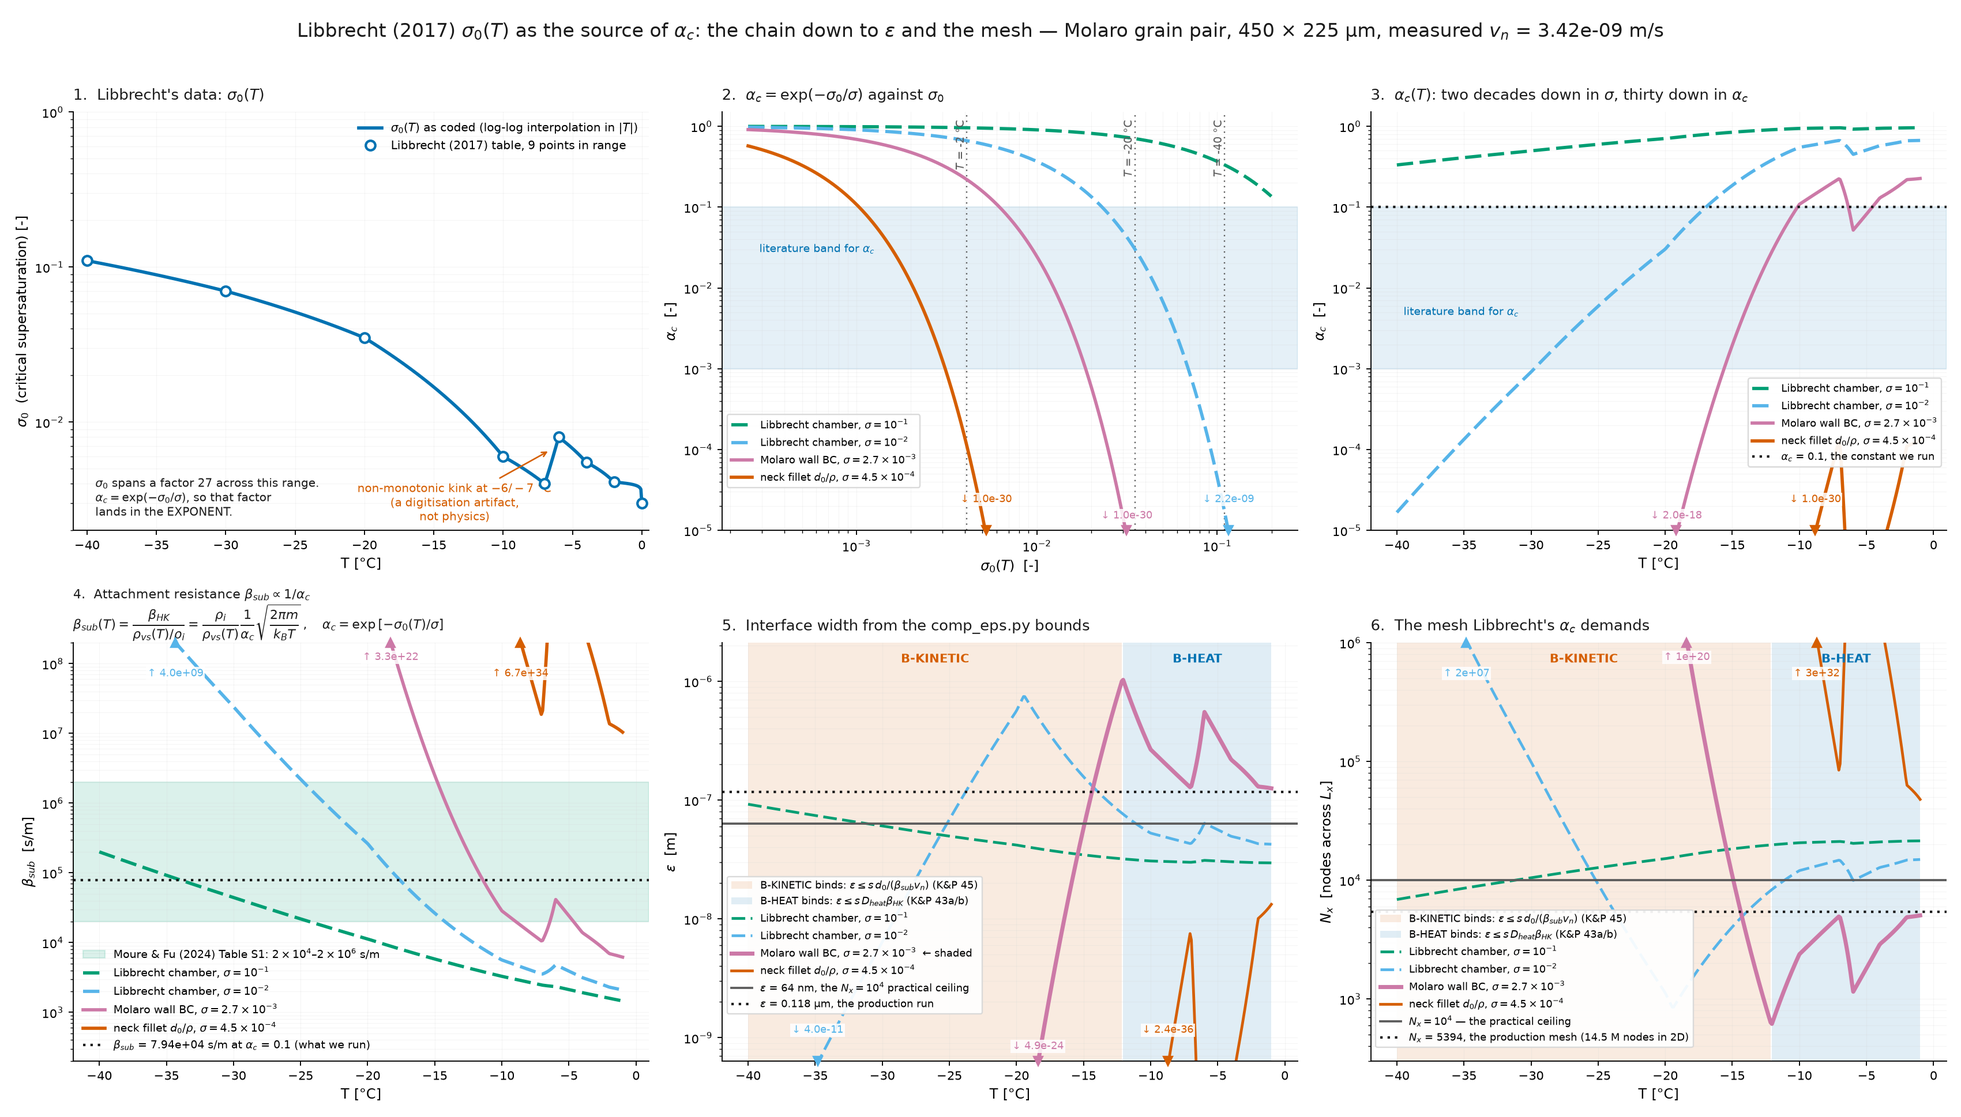
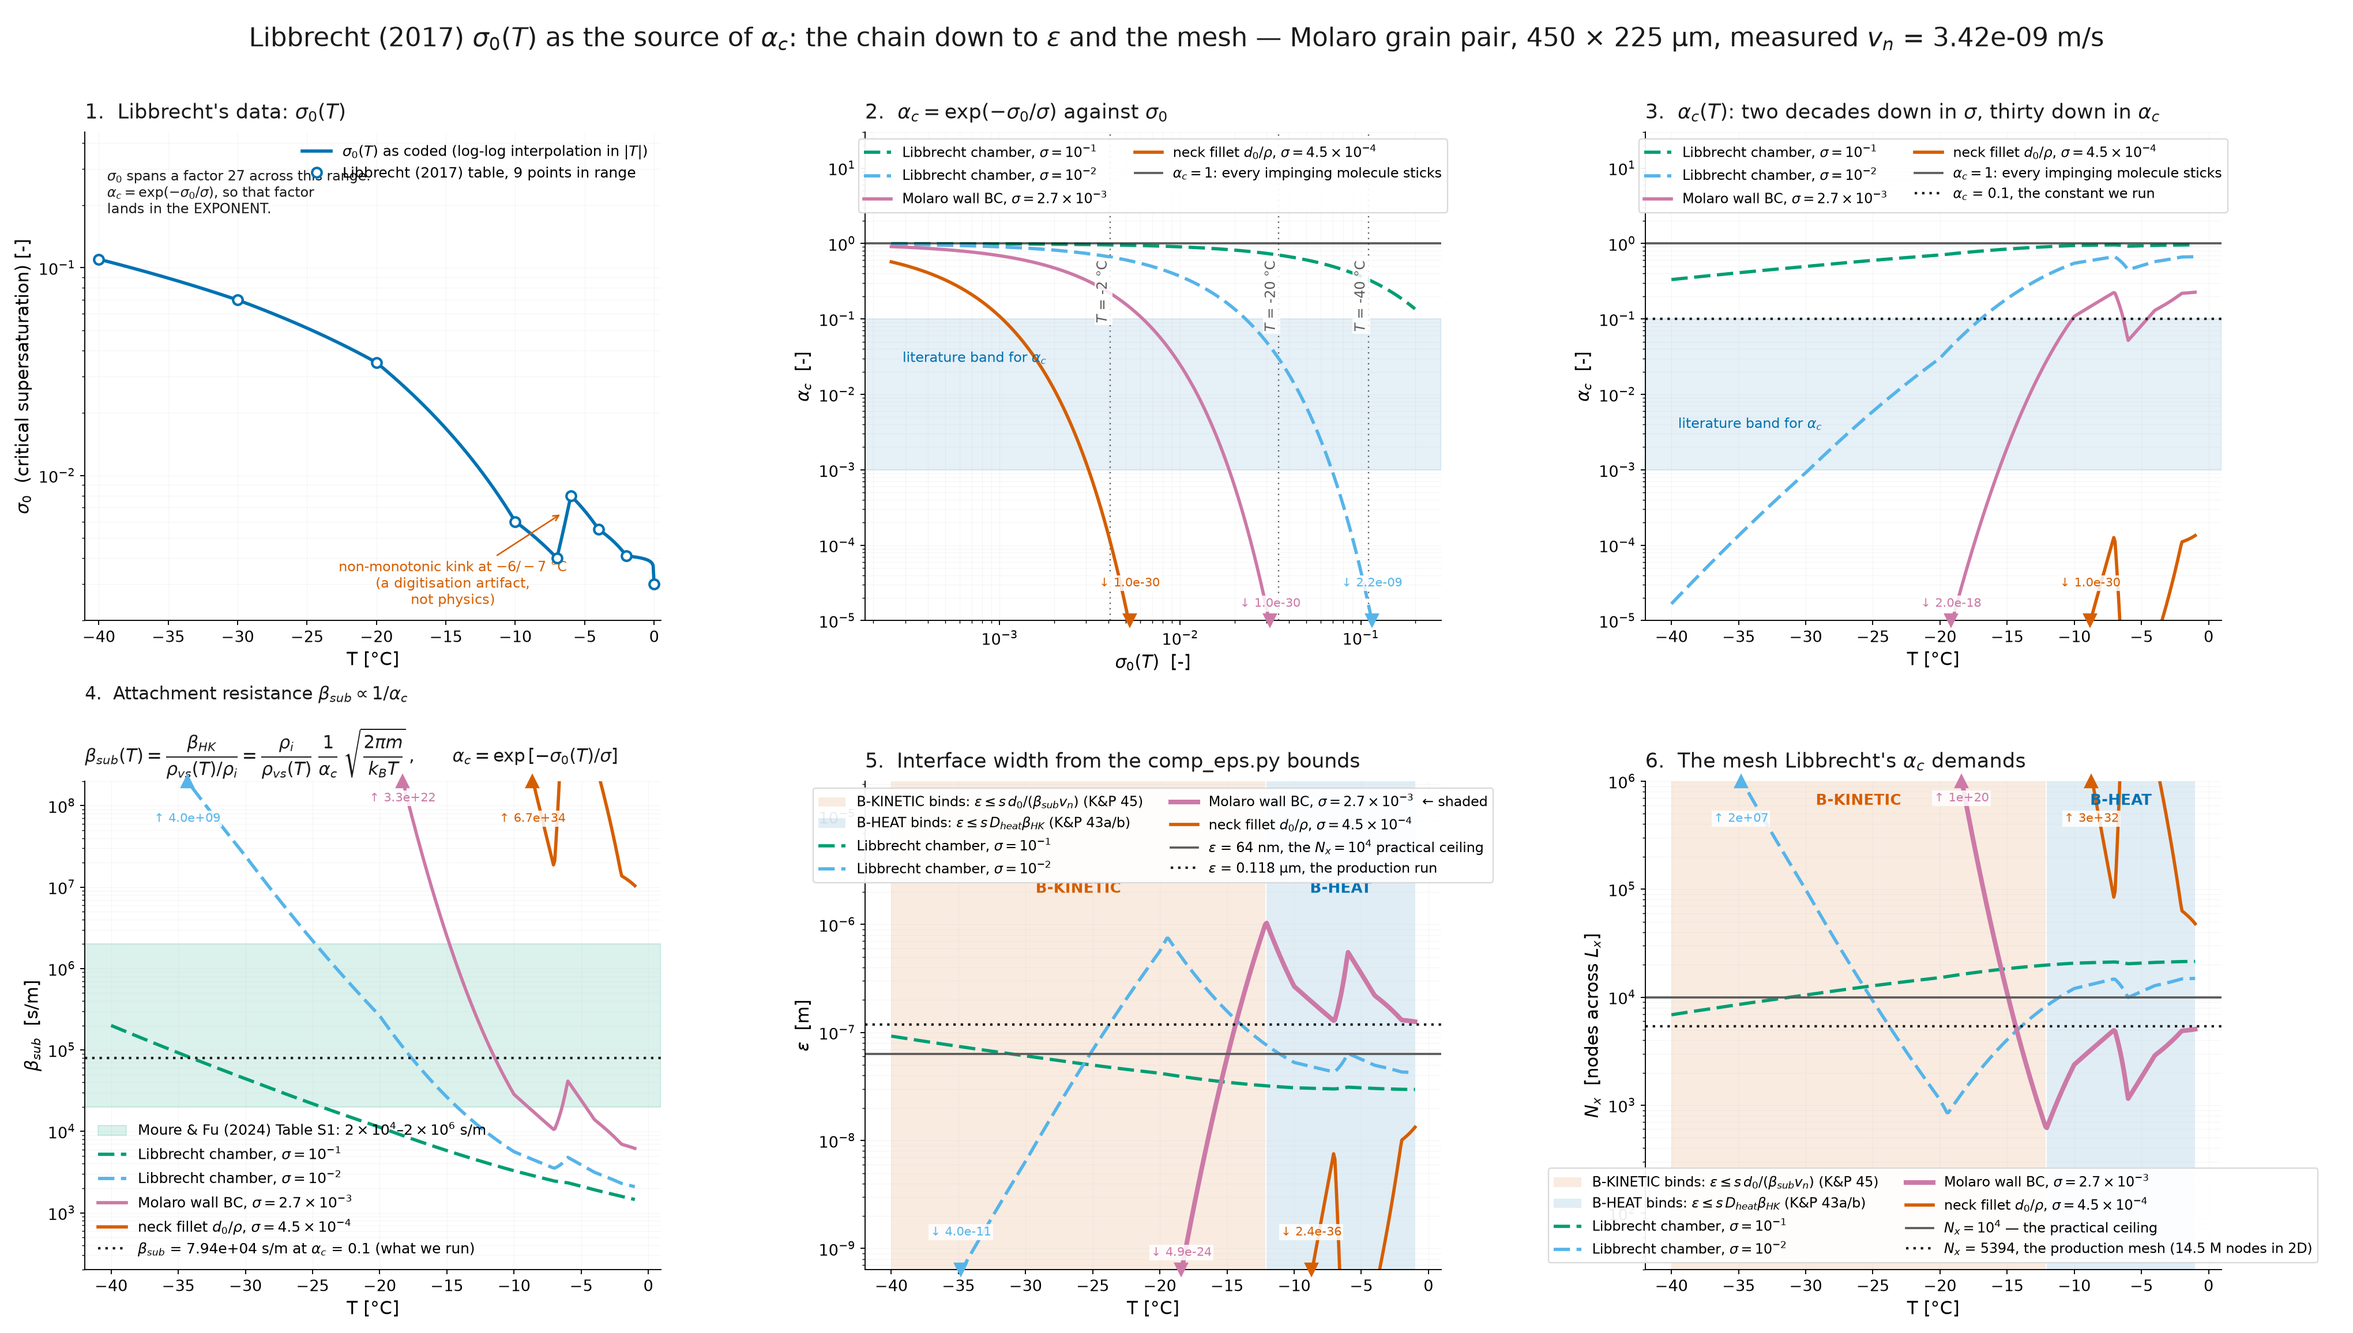
Size the Libbrecht panels for a slide, and get the legends off the curves
Three problems, one cause: the panels were laid out for a screen an arm's
length away, and there was nowhere for a legend to go that a curve was not
already using.

Type is now one scheme for both the standalone panels and the overview --
title 15, labels 13, ticks 11.5, legend 10.5, notes 10 -- with the figure
sizes chosen (10x7, and 24x13.6 for the 2x3) so the per-panel area stays
comparable and the same absolute sizes work in both.

For the legends, each crowded panel reserves a band that no data can ever
reach and puts the legend there. Panels 2 and 3 use the space above
alpha_c = 1, which is now drawn and labelled -- it is a physical ceiling,
so that whitespace is honest rather than padding. Panel 5 uses the space
above the largest resolvable eps, panel 6 the space below the smallest
Nx; those are the same band seen from the two ends, so the reciprocity
between the two panels survives.

Panel 4's equation gets a blank line of air under the heading, and panel
1's factor-27 note moves to the upper left, the only corner with no
curve, legend or arrow in it.

Claude-Session: https://claude.ai/code/session_01BVdmhQKeceS9YYRoWfp7Wf

diff --git a/projects/enceladus_DSM/preprocess/plot_libbrecht_constraints.py b/projects/enceladus_DSM/preprocess/plot_libbrecht_constraints.py
@@ -107,6 +107,15 @@ SIGMA_CASES = [
 A_MOL = (ce._M_H2O / ce._RHO_ICE) ** (1.0 / 3.0)
 
 ALPHA_FLOOR = 1.0e-30       # the floor hardwired in comp_eps.alpha_libbrecht
+ALPHA_CEIL = 1.0            # every impinging molecule sticks
+
+# Type scale. These panels are meant to fill most of a slide, so they are
+# sized for a projector rather than for a screen an arm's length away. One
+# scheme serves both the standalone figures and the overview grid, because
+# FIGSIZE and OVERVIEW_SIZE keep the per-panel area roughly equal.
+FS_TITLE, FS_LABEL, FS_TICK, FS_LEG, FS_NOTE = 15, 13, 11.5, 10.5, 10
+FIGSIZE = (10.0, 7.0)
+OVERVIEW_SIZE = (24.0, 13.6)
 
 # -------------------------------------------------------------------------
 # The display window.
@@ -118,14 +127,19 @@ ALPHA_FLOOR = 1.0e-30       # the floor hardwired in comp_eps.alpha_libbrecht
 # frame and the extreme it reaches is stated, so nothing is hidden; the full
 # numbers stay in libbrecht_constraints.csv and the study README.
 # -------------------------------------------------------------------------
-VIEW_ALPHA = (ce.ALPHA_LIT_LO * 1e-2, 1.5)        # band 1e-3..1e-1; alpha_c <= 1
+VIEW_ALPHA = (ce.ALPHA_LIT_LO * 1e-2, 3.0e1)      # band 1e-3..1e-1, +2 decades
+# alpha_c <= ALPHA_CEIL by definition, so everything above it is whitespace
+# no data can ever reach -- which is where panels 2 and 3 park their legends.
 MF_BETA_LO, MF_BETA_HI = 2.0e4, 2.0e6             # M&F (2024) Table S1
 VIEW_BETA = (MF_BETA_LO * 1e-2, MF_BETA_HI * 1e2)
 
 # Mesh window, in Nx. NX_USABLE is what we can actually run; the frame is
 # opened up ~2.3 decades above it so the molecular limit Lx/a stays visible.
 NX_USABLE = 1.0e4
-VIEW_NX = (3.0e2, 1.0e6)
+# The bottom decade and a half carries no data -- they are reserved so panel 6's
+# legend has somewhere to sit that is not on top of a curve. Panel 5's eps
+# window is the exact reciprocal, so its reserved band is at the top.
+VIEW_NX = (3.0e1, 1.0e6)
 
 
 def _mark_offscale(a, x, y, color, fmt="{:.1e}", row=0):
@@ -153,31 +167,32 @@ def _mark_offscale(a, x, y, color, fmt="{:.1e}", row=0):
         while hi_i < len(out) - 1 and out[hi_i + 1]:
             hi_i += 1
         j = hi_i if hi_i < len(out) - 1 else (lo_i if lo_i > 0 else k)
-        pad = 7.0 + 12.0 * row
-        a.plot([x[j]], [edge], mk, ms=7, color=color, clip_on=False, zorder=7)
+        pad = 8.0 + 15.0 * row
+        a.plot([x[j]], [edge], mk, ms=9, color=color, clip_on=False, zorder=7)
         a.annotate(f"{arrow} {fmt.format(extreme(y))}", (x[j], edge),
                    xytext=(0, -pad if va == "top" else pad),
-                   textcoords="offset points", fontsize=7.5, color=color,
+                   textcoords="offset points", fontsize=FS_NOTE - 1,
+                   color=color,
                    ha="center", va=va, zorder=7,
                    bbox=dict(boxstyle="square,pad=0.15", fc="white", ec="none",
                              alpha=0.85))
 
 
-def _style(a, xlabel, ylabel, title, logy=True, title_size=11):
-    a.set_xlabel(xlabel, fontsize=10)
-    a.set_ylabel(ylabel, fontsize=10)
+def _style(a, xlabel, ylabel, title, logy=True, title_size=FS_TITLE, pad=10):
+    a.set_xlabel(xlabel, fontsize=FS_LABEL)
+    a.set_ylabel(ylabel, fontsize=FS_LABEL)
     if title:
-        a.set_title(title, fontsize=title_size, color=INK, loc="left", pad=9)
+        a.set_title(title, fontsize=title_size, color=INK, loc="left", pad=pad)
     if logy:
         a.set_yscale("log")
     a.grid(alpha=0.25, lw=0.5, color=GRID, which="both")
     a.spines[["top", "right"]].set_visible(False)
-    a.tick_params(labelsize=9)
+    a.tick_params(labelsize=FS_TICK)
 
 
-def _legend(a, **kw):
+def _legend(a, size=FS_LEG, **kw):
     """Framed legend, for the panels where every corner has a curve in it."""
-    a.legend(fontsize=7.6, frameon=True, framealpha=0.93, facecolor="white",
+    a.legend(fontsize=size, frameon=True, framealpha=0.93, facecolor="white",
              edgecolor=GRID, **kw)
 
 
@@ -202,19 +217,20 @@ def panel_sigma0(a, T, ctx):
            markerfacecolor="white", markeredgewidth=1.8, zorder=5,
            label="Libbrecht (2017) table, 9 points in range")
     a.annotate("non-monotonic kink at $-6/-7$ °C\n(a digitisation artifact,\n"
-               "not physics)", (-6.6, 6.6e-3), xytext=(-13.5, 3.0e-3),
-               fontsize=8.5, color=C[1], ha="center", va="center",
+               "not physics)", (-6.6, 6.6e-3), xytext=(-14.5, 3.0e-3),
+               fontsize=FS_NOTE, color=C[1], ha="center", va="center",
                arrowprops=dict(arrowstyle="->", color=C[1], lw=1.1))
-    a.text(-39.4, 2.35e-3,
+    # Upper left: the only corner with no curve, no legend and no arrow in it.
+    a.text(-39.4, 3.0e-1,
            "$\\sigma_0$ spans a factor 27 across this range.\n"
            "$\\alpha_c = \\exp(-\\sigma_0/\\sigma)$, so that factor\n"
            "lands in the EXPONENT.",
-           fontsize=8.5, color=INK, ha="left", va="bottom")
+           fontsize=FS_NOTE, color=INK, ha="left", va="top")
     a.set_xlim(-41, 0.5)
-    a.set_ylim(2.0e-3, 1.0)
+    a.set_ylim(2.0e-3, 4.5e-1)
     _style(a, "T [°C]", "$\\sigma_0$  (critical supersaturation) [-]",
            "1.  Libbrecht's data: $\\sigma_0(T)$")
-    a.legend(fontsize=8.5, frameon=False, loc="upper right")
+    a.legend(fontsize=FS_LEG, frameon=False, loc="upper right")
 
 
 def panel_alpha_vs_sigma0(a, T, ctx):
@@ -228,35 +244,43 @@ def panel_alpha_vs_sigma0(a, T, ctx):
         y = np.maximum(y, ALPHA_FLOOR)
         a.plot(s0, y, lw=2.4, color=col, ls=_ls(kind), label=lbl)
         _mark_offscale(a, s0, y, col, row=i % 2)
+    a.axhline(ALPHA_CEIL, lw=1.6, color=INK, alpha=0.7,
+              label="$\\alpha_c = 1$: every impinging molecule sticks")
     # Where the table's own sigma0 values sit, so x carries physical marks.
     for Tm in (-2.0, -20.0, -40.0):
         s0m = ce.sigma0(Tm)
         a.axvline(s0m, lw=1.0, ls=(0, (1, 3)), color=MUTED, zorder=0)
-        a.annotate(f"$T$ = {Tm:.0f} °C", (s0m, VIEW_ALPHA[1] * 0.8), rotation=90,
-                   fontsize=8, color=MUTED, ha="right", va="top")
-    a.annotate("literature band for $\\alpha_c$", (2.9e-4, 3.0e-2), fontsize=8,
-               color=C[0], va="center")
+        a.annotate(f"$T$ = {Tm:.0f} °C", (s0m, ALPHA_CEIL * 0.6), rotation=90,
+                   fontsize=FS_NOTE, color=MUTED, ha="right", va="top", zorder=6,
+                   bbox=dict(boxstyle="square,pad=0.15", fc="white", ec="none",
+                             alpha=0.85))
+    a.annotate("literature band for $\\alpha_c$", (2.9e-4, 3.0e-2),
+               fontsize=FS_NOTE, color=C[0], va="center")
     _style(a, "$\\sigma_0(T)$  [-]", "$\\alpha_c$  [-]",
            "2.  $\\alpha_c = \\exp(-\\sigma_0/\\sigma)$ against $\\sigma_0$")
-    _legend(a, loc="lower left", bbox_to_anchor=(0.0, 0.09))
+    _legend(a, size=FS_LEG - 0.5, loc="upper center", ncol=2,
+            bbox_to_anchor=(0.5, 1.0))
 
 
 def panel_alpha_vs_T(a, T, ctx):
     """3. alpha_c(T) at each sigma -- the supersaturation gap, in T."""
     a.axhspan(ce.ALPHA_LIT_LO, ce.ALPHA_LIT_HI, color=C[0], alpha=0.10, zorder=0)
     a.set_ylim(*VIEW_ALPHA)
-    a.annotate("literature band for $\\alpha_c$", (-39.5, 5.0e-3), fontsize=8,
-               color=C[0], va="center")
+    a.annotate("literature band for $\\alpha_c$", (-39.5, 4.0e-3),
+               fontsize=FS_NOTE, color=C[0], va="center")
     for i, (sig, col, lbl, kind) in enumerate(SIGMA_CASES):
         y = np.maximum(ctx["alpha"][sig], ALPHA_FLOOR)
         a.plot(T, y, lw=2.4, color=col, ls=_ls(kind), label=lbl)
         _mark_offscale(a, T, y, col, row=i % 2)
+    a.axhline(ALPHA_CEIL, lw=1.6, color=INK, alpha=0.7,
+              label="$\\alpha_c = 1$: every impinging molecule sticks")
     a.axhline(ctx["alpha_run"], lw=1.8, ls=(0, (1, 2)), color=INK,
               label=f"$\\alpha_c$ = {ctx['alpha_run']:g}, the constant we run")
     _style(a, "T [°C]", "$\\alpha_c$  [-]",
            "3.  $\\alpha_c(T)$: two decades down in $\\sigma$, "
            "thirty down in $\\alpha_c$")
-    _legend(a, loc="lower right", bbox_to_anchor=(1.0, 0.14))
+    _legend(a, size=FS_LEG - 0.5, loc="upper center", ncol=2,
+            bbox_to_anchor=(0.5, 1.0))
 
 
 def panel_beta_vs_T(a, T, ctx):
@@ -273,22 +297,22 @@ def panel_beta_vs_T(a, T, ctx):
               label=f"$\\beta_{{sub}}$ = {ctx['beta_run']:.2e} s/m at "
                     f"$\\alpha_c$ = {ctx['alpha_run']:g} (what we run)")
     _style(a, "T [°C]", "$\\beta_{sub}$  [s/m]",
-           "4.  Attachment resistance $\\beta_{sub} \\propto 1/\\alpha_c$\n"
+           "4.  Attachment resistance $\\beta_{sub} \\propto 1/\\alpha_c$\n\n"
            r"$\beta_{sub}(T)=\dfrac{\beta_{HK}}{\rho_{vs}(T)/\rho_i}"
-           r"=\dfrac{\rho_i}{\rho_{vs}(T)}\dfrac{1}{\alpha_c}"
-           r"\sqrt{\dfrac{2\pi m}{k_B T}}\,,\quad"
+           r"=\dfrac{\rho_i}{\rho_{vs}(T)}\;\dfrac{1}{\alpha_c}\;"
+           r"\sqrt{\dfrac{2\pi m}{k_B T}}\,,\qquad"
            r"\alpha_c=\exp\left[-\sigma_0(T)/\sigma\right]$",
-           title_size=9.5)
-    a.legend(fontsize=8, frameon=False, loc="lower left")
+           title_size=13, pad=14)
+    a.legend(fontsize=FS_LEG, frameon=False, loc="lower left")
 
 
 def panel_eps_vs_T(a, T, ctx):
     """5. eps(T) straight out of comp_eps.compute_eps, shaded by binding bound."""
     prim = ctx["primary_sigma"]
     a.set_ylim(*ctx["view_eps"])
-    _shade_binding(a, T, ctx["binding"][prim], label_at="top")
+    _shade_binding(a, T, ctx["binding"][prim], y_frac=0.795)
     for i, (sig, col, lbl, kind) in enumerate(SIGMA_CASES):
-        a.plot(T, ctx["eps"][sig], lw=3.0 if sig == prim else 2.0, color=col,
+        a.plot(T, ctx["eps"][sig], lw=3.4 if sig == prim else 2.4, color=col,
                ls=_ls(kind),
                label=lbl + ("  ← shaded" if sig == prim else ""))
         _mark_offscale(a, T, ctx["eps"][sig], col, row=i % 2)
@@ -299,16 +323,17 @@ def panel_eps_vs_T(a, T, ctx):
               label=f"$\\epsilon$ = {ctx['eps_run']*1e6:.3g} µm, the production run")
     _style(a, "T [°C]", "$\\epsilon$  [m]",
            "5.  Interface width from the comp_eps.py bounds")
-    _legend(a, loc="lower left", bbox_to_anchor=(0.0, 0.10))
+    _legend(a, size=FS_LEG - 0.5, loc="upper center", ncol=2,
+            bbox_to_anchor=(0.5, 1.0))
 
 
 def panel_Nx_vs_T(a, T, ctx):
     """6. Nx(T) = ceil(sqrt(2)*Lx/eps), against what a machine can hold."""
     prim = ctx["primary_sigma"]
     a.set_ylim(*VIEW_NX)
-    _shade_binding(a, T, ctx["binding"][prim], label_at="top")
+    _shade_binding(a, T, ctx["binding"][prim], y_frac=0.975)
     for i, (sig, col, lbl, kind) in enumerate(SIGMA_CASES):
-        a.plot(T, ctx["Nx"][sig], lw=3.0 if sig == prim else 2.0, color=col,
+        a.plot(T, ctx["Nx"][sig], lw=3.4 if sig == prim else 2.4, color=col,
                ls=_ls(kind), label=lbl)
         _mark_offscale(a, T, ctx["Nx"][sig], col, fmt="{:.0e}", row=i % 2)
     a.axhline(NX_USABLE, lw=1.6, color=MUTED,
@@ -318,16 +343,17 @@ def panel_Nx_vs_T(a, T, ctx):
                     f"({ctx['nodes_run']/1e6:.1f} M nodes in 2D)")
     _style(a, "T [°C]", "$N_x$  [nodes across $L_x$]",
            "6.  The mesh Libbrecht's $\\alpha_c$ demands")
-    _legend(a, loc="lower left", bbox_to_anchor=(0.0, 0.02))
+    _legend(a, size=FS_LEG - 0.5, loc="lower center", ncol=2,
+            bbox_to_anchor=(0.5, 0.0))
 
 
-def _shade_binding(a, T, binding, label_at="top"):
+def _shade_binding(a, T, binding, y_frac=0.975):
     """Shade contiguous T-runs sharing a binding bound; name each region once.
 
-    label_at keeps the region names clear of the off-scale markers, which sit
-    on the bottom edge in panel 5 and on the top edge in panel 6.
+    y_frac lets the caller drop the region names clear of whatever else lives
+    at the top of that panel -- panel 5 parks its legend there.
     """
-    y, va = (0.975, "top") if label_at == "top" else (0.025, "bottom")
+    y, va = y_frac, "top"
     seen = set()
     i = 0
     while i < len(T):
@@ -341,7 +367,7 @@ def _shade_binding(a, T, binding, label_at="top"):
         seen.add(name)
         # Name the region inside it, so the shading is never colour-alone.
         a.annotate(name, (0.5 * (T[i] + T[j]), y),
-                   xycoords=("data", "axes fraction"), fontsize=9,
+                   xycoords=("data", "axes fraction"), fontsize=FS_NOTE + 1,
                    color=BOUND_COLOR.get(name, MUTED), ha="center", va=va,
                    fontweight="bold")
         i = j + 1
@@ -431,7 +457,7 @@ def main():
 
     # --- standalone, slide-sized figures ---------------------------------
     for name, fn in PANELS:
-        fig, a = plt.subplots(figsize=(8.2, 5.8))
+        fig, a = plt.subplots(figsize=FIGSIZE)
         fn(a, T, ctx)
         fig.tight_layout()
         fig.savefig(args.out / f"{name}.png", dpi=200)
@@ -439,11 +465,11 @@ def main():
         print(f"plot -> {args.out / (name + '.png')}")
 
     # --- one-slide overview ----------------------------------------------
-    fig, axes = plt.subplots(2, 3, figsize=(20.0, 11.4))
+    fig, axes = plt.subplots(2, 3, figsize=OVERVIEW_SIZE)
     fig.suptitle("Libbrecht (2017) $\\sigma_0(T)$ as the source of $\\alpha_c$: "
                  f"the chain down to $\\epsilon$ and the mesh — {args.label}, "
                  f"measured $v_n$ = {args.vn:.3g} m/s",
-                 fontsize=14, color=INK)
+                 fontsize=19, color=INK)
     for ax, (_n, fn) in zip(axes.ravel(), PANELS):
         fn(ax, T, ctx)
     fig.tight_layout(rect=(0, 0, 1, 0.965))

diff --git a/projects/enceladus_DSM/studies/libbrecht_kinetics/README.md b/projects/enceladus_DSM/studies/libbrecht_kinetics/README.md
@@ -39,13 +39,19 @@ from what the sizer does.
 
 **Axis windows.** Plotted full-range these quantities span sixty decades and
 the usable band is a hairline, so every axis is clipped to the *literature*
-band opened up by two decades on each side — α_c to [1e-5, 1], β_sub to
-[2e2, 2e8] around M&F's [2e4, 2e6], and N_x to [3e2, 1e6] around the
-N_x = 10⁴ practical ceiling (ε panel 5 is the exact reciprocal of the N_x
-window, so panels 5 and 6 read against each other). Where a curve leaves the
-frame it is marked on the edge with the extreme it reaches, so nothing is
-hidden; the full range is in `libbrecht_constraints.csv` and in the table
-below.
+band opened up by two decades on each side — α_c to [1e-5, 30], β_sub to
+[2e2, 2e8] around M&F's [2e4, 2e6], and N_x to [3e1, 1e6] around the
+N_x = 10⁴ practical ceiling. Panel 5's ε window is the exact reciprocal of
+panel 6's N_x window, so the two read against each other.
+
+Each of panels 2, 3, 5 and 6 reserves a band that *no data can reach* and puts
+its legend there, rather than laying it over the curves: above α_c = 1 in
+panels 2–3 (every impinging molecule sticks — nothing is above it), above the
+largest resolvable ε in panel 5, and below the smallest N_x in panel 6.
+
+Where a curve leaves the frame it is marked on the edge with the extreme it
+reaches, so nothing is hidden; the full range is in
+`libbrecht_constraints.csv` and in the table below.
 
 The four supersaturations plotted, and where each comes from:
 

diff --git a/projects/enceladus_DSM/.claude/ACTIVITY_LOG.md b/projects/enceladus_DSM/.claude/ACTIVITY_LOG.md
@@ -1,3 +1,26 @@
+## 2026-09-02 (later still) — Slide-scale type; legends off the curves
+
+- Jackson: legends in panels 5 and 6 were covering curves, panel 4's equation
+  needed more air, and the whole thing has to read from the back of a room.
+- Type scale is now one scheme for both the standalone panels and the
+  overview: title 15, labels 13, ticks 11.5, legend 10.5, notes 10. Standalone
+  figures went 8.2x5.8 -> 10x7 in, the overview 20x11.4 -> 24x13.6, so the
+  per-panel area stays comparable and one font scheme serves both.
+- Every crowded panel now reserves a band that NO DATA CAN REACH and parks its
+  legend there, instead of floating it over the curves:
+    * panels 2, 3: above alpha_c = 1 (physical ceiling, drawn and labelled)
+    * panel 5: above the largest resolvable eps
+    * panel 6: below the smallest Nx
+  Panels 5 and 6 stay exact reciprocals because Nx's reserved band is at the
+  bottom and eps's is at the top -- same band, seen from the two ends.
+- Panel 4's equation gets a blank line between it and the heading, and sits in
+  the title at 13 pt.
+- Panel 1: moved the factor-27 note to the upper left (the only corner with no
+  curve, legend or arrow) -- it was colliding with the kink callout in the
+  overview -- and trimmed the dead headroom to ylim 0.45.
+
+---
+
 ## 2026-09-02 (later) — Zoomed the Libbrecht panels to the usable window
 
 - Jackson: the beta_sub equation box was sitting on panel 4's legend, and the
